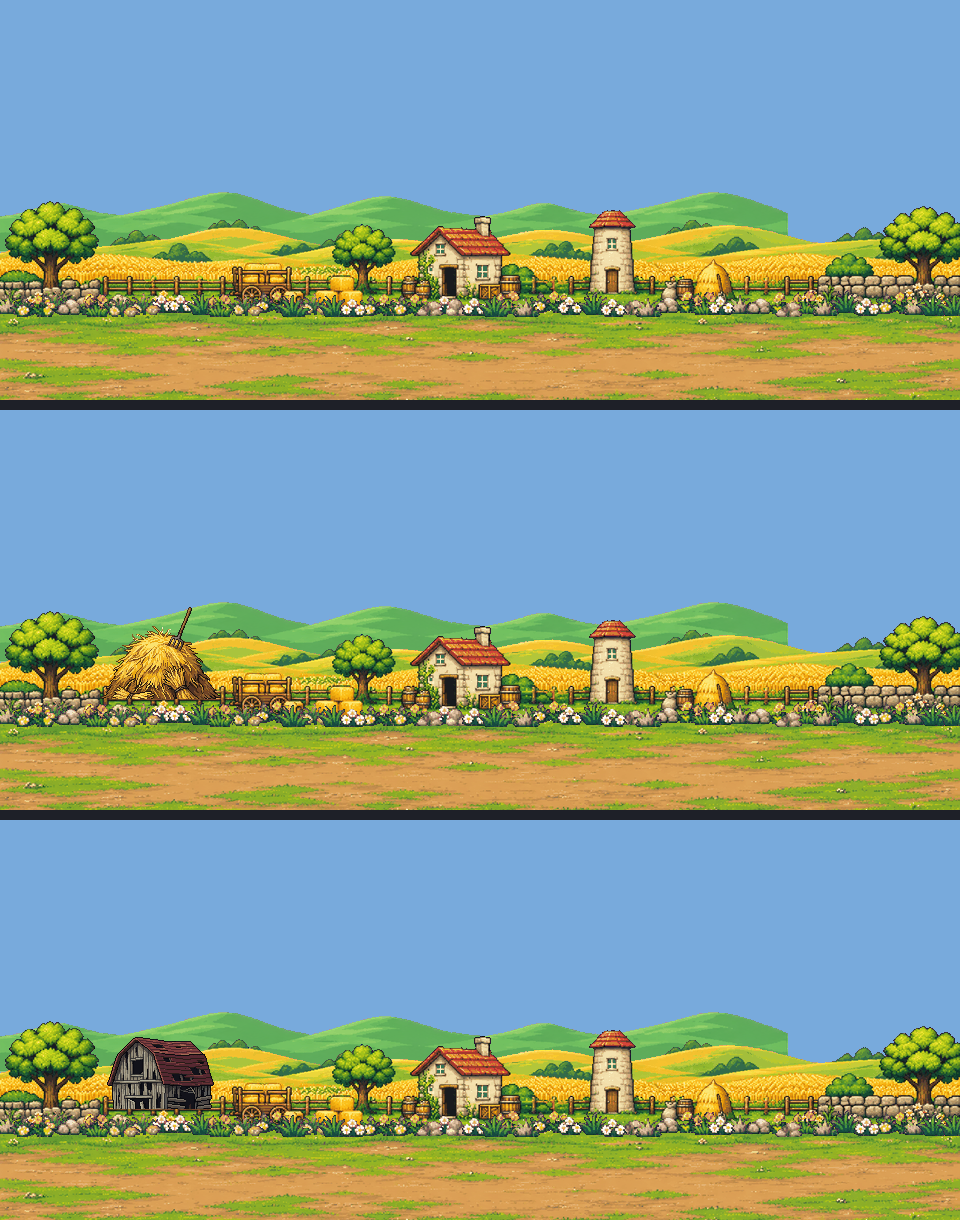
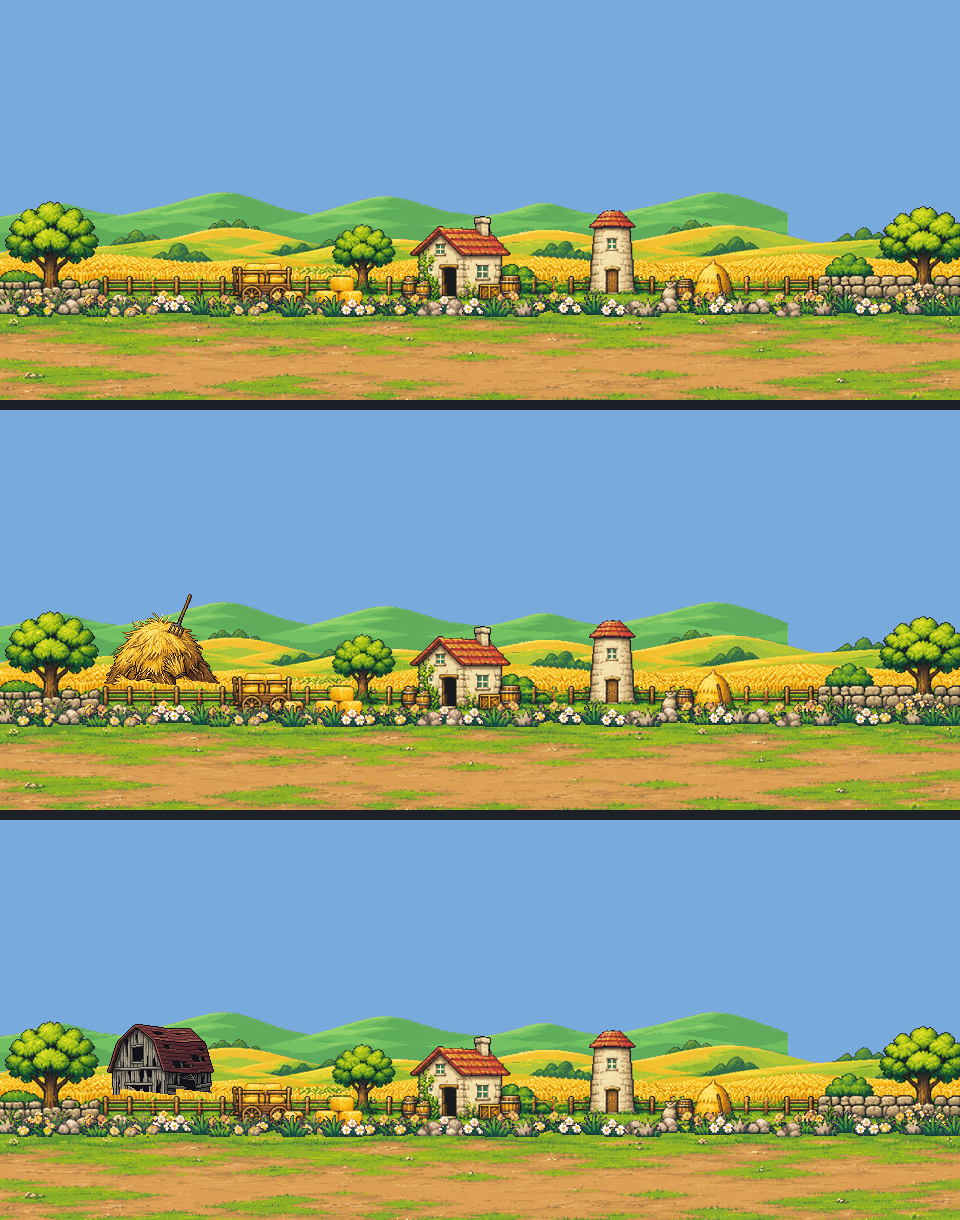
리젠 자리: 울타리 아래로 떠 보이던 것 → 울타리 뒤 밀밭 땅(중경 90줄)에 세우고 울타리 · 밀 아랫단 · 풀 · 꽃을 앞에 다시 그림(윗선은 이삭처럼 들쭉날쭉)
Claude-Session: https://claude.ai/code/session_01WLiZx34epMs3AjWHK4vuZu

Changed region(s): [[0.0938, 0.841, 0.2188, 0.9344], [0.0938, 0.4984, 0.2188, 0.5918]]

diff --git a/src/regen78.js b/src/regen78.js
@@ -156,7 +156,7 @@ if (typeof window !== 'undefined') setInterval(regenTick, 5000);
 const REGEN_SPOT = { c1: { art: 'hay', x: 80 }, c2: { art: 'barn', x: 80 } };   // 집 · 망루와 겹치지 않는 왼쪽 빈자리(나무와 짐수레 사이)   // x = 중경 한 바퀴(960) 안의 자리 (논리 칸)
 const REGEN_IMG = {};
 if (typeof Image !== 'undefined' && typeof REGEN_ART !== 'undefined') for (const k in REGEN_ART) { const im = new Image(); im.src = REGEN_ART[k].url; REGEN_IMG[k] = im; }
-const REGEN_FR = 88, REGEN_BASE = 103;   // 중경 그림(픽셀)의 앞줄 시작 · 그림 밑동이 닿는 줄
+const REGEN_FR = 74, REGEN_BASE = 90;   // 11-28 대표님 「울타리 아래 보이게 공중부양」 → 울타리 뒤 밀밭 땅(90줄)에 세우고, 울타리 · 밀 아랫단 · 풀 · 꽃(74줄부터)을 그림 앞에 다시 그린다
 GTYPES.strawring.art = 'strawring';
 const _bwh78 = buildWideHD;
 buildWideHD = function (id, old) {   // eslint-disable-line no-func-assign
@@ -164,7 +164,10 @@ buildWideHD = function (id, old) {   // eslint-disable-line no-func-assign
   if (id !== 'plains' || b.hdWait || typeof REGEN_ART === 'undefined') return b;
   const B = HD70_DATA.bg[id], LD = (B.ld != null ? B.ld : 55) - HD_LD_UP, q = B.hs || 1, my = B.mid.y + LD;
   const [fr, fx] = mkCanvas(b.mid.width, b.mid.height); const sy = Math.round(my * q) + REGEN_FR;
-  fx.drawImage(b.mid, 0, sy, b.mid.width, b.mid.height - sy, 0, sy, b.mid.width, b.mid.height - sy); fr.hs = q;   // 중경 앞줄만
+  for (let x = 0; x < b.mid.width; x += 2) {   // 앞줄 윗선을 밀 이삭처럼 들쭉날쭉하게(두 픽셀마다 0 ~ 6줄 위로) — 곧은 선이면 그림이 잘려 보인다
+    const y0 = sy - ((x * 7 + (x >> 3) * 13) % 7); fx.drawImage(b.mid, x, y0, 2, b.mid.height - y0, x, y0, 2, b.mid.height - y0);
+  }
+  fr.hs = q;   // 중경 앞줄만
   const W2 = b.mid.width / q, base = my + REGEN_BASE / q, pr = b.props;
   b.props = function (g, off, t, dark) {
     if (pr) pr.call(this, g, off, t, dark);

diff --git a/tools/saved/regen78/gamecomp.py b/tools/saved/regen78/gamecomp.py
@@ -12,8 +12,10 @@ def scene(art, xs=80):
     S.alpha_composite(row(back, 46 + LD)); my = 69.6 + LD; S.alpha_composite(row(mid, my))
     if art:
         p = Image.open(f'pick_{art}.png').convert('RGBA'); p = p.crop(p.getbbox())
-        X = xs * q - p.width // 2; Y = round(my * q) + 103 - p.height; S.alpha_composite(p, (X, Y))
-        fr = mid.crop((0, 88, mid.width, mid.height)); clip = Image.new('RGBA', (W, H)); clip.alpha_composite(fr.crop((0, 0, min(W, fr.width), fr.height)), (0, round(my * q) + 88))
+        X = xs * q - p.width // 2; Y = round(my * q) + 90 - p.height; S.alpha_composite(p, (X, Y))
+        clip = Image.new('RGBA', (W, H)); oy = round(my * q)
+        for x in range(0, min(W, mid.width), 2):   # regen78.js와 같은 들쭉날쭉한 윗선
+            y0 = 74 - ((x * 7 + (x >> 3) * 13) % 7); clip.alpha_composite(mid.crop((x, y0, x + 2, mid.height)), (x, oy + y0))
         box = (X - 4, Y, X + p.width + 4, H); S.alpha_composite(clip.crop(box), box[:2])
     S.alpha_composite(row(gr, 111 + LD))
     return S
